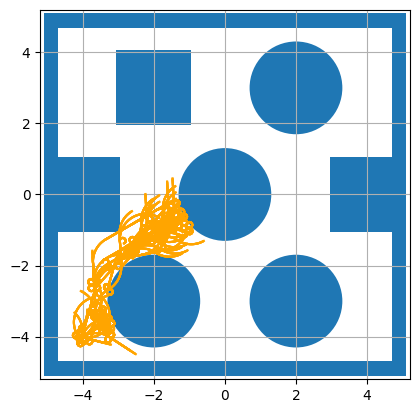
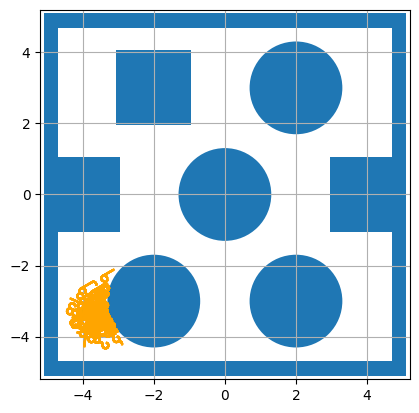
added json file

Changed region(s): [[0.1551, 0.4358, 0.4964, 0.8426], [0.3103, 0.8426, 0.3413, 0.8717]]

diff --git a/Turtlebot_A_star.py b/Turtlebot_A_star.py
@@ -11,29 +11,30 @@ import math
 import matplotlib.pyplot as plt
 from time import process_time
 import cv2
+import json
 
 ###################################################################################################################
 #               USER INPUT
 ###################################################################################################################
-# Uncomment to choose different positions:-
-print("Kindly enter all values in metres")
-start_node_x = float(input("Enter the starting x coordinate for the rigid robot\n"))
-start_node_y = float(input("Enter the starting y coordinate for the rigid robot\n"))
-initial_angle = float(input("Enter the initial angle of the robot in degree\n"))
-
-goal_node_x = float(input("Enter the goal x coordinate for the rigid robot\n"))
-goal_node_y = float(input("Enter the goal y coordinate for the rigid robot\n"))
-
-start_node_position = [start_node_x, start_node_y]
-goal_node_position = [goal_node_x, goal_node_y]
-
-# two rpm values
-rpm1 = float(input("Enter value of rpm 1\n"))
-rpm2 = float(input("Enter value of rpm 2\n"))
-
-radius_rigid_robot = float(input("Enter the radius of the rigid robot \n"))
-clearance = float(input("Enter the desired clearance for the rigid robot\n"))
-augment_distance = radius_rigid_robot + clearance
+# # Uncomment to choose different positions:-
+# print("Kindly enter all values in metres")
+# start_node_x = float(input("Enter the starting x coordinate for the rigid robot\n"))
+# start_node_y = float(input("Enter the starting y coordinate for the rigid robot\n"))
+# initial_angle = float(input("Enter the initial angle of the robot in degree\n"))
+#
+# goal_node_x = float(input("Enter the goal x coordinate for the rigid robot\n"))
+# goal_node_y = float(input("Enter the goal y coordinate for the rigid robot\n"))
+#
+# start_node_position = [start_node_x, start_node_y]
+# goal_node_position = [goal_node_x, goal_node_y]
+#
+# # two rpm values
+# rpm1 = float(input("Enter value of rpm 1\n"))
+# rpm2 = float(input("Enter value of rpm 2\n"))
+#
+# radius_rigid_robot = float(input("Enter the radius of the rigid robot \n"))
+# clearance = float(input("Enter the desired clearance for the rigid robot\n"))
+# augment_distance = radius_rigid_robot + clearance
 
 ###################################################################################################################
 #               CONSTANTS
@@ -48,32 +49,32 @@ time_for_moving_turtlebot = 5
 #               TESTING CODE
 ###################################################################################################################
 #
-# turtlebot_diameter = 0.21 #0.21 metres
-#
-# # for testing for video 1
+turtlebot_diameter = 0.21 #0.21 metres
+
+# for testing for video 1
+start_node_x = -4
+start_node_y = -3.5
+initial_angle = 30
+goal_node_x = 0.5
+goal_node_y = -2.5
+
+# # for testing for video 2
 # start_node_x = -4
-# start_node_y = -3.5
+# start_node_y = -4
 # initial_angle = 30
-# goal_node_x = 0.5
-# goal_node_y = -2.5
-#
-# # # for testing for video 2
-# # start_node_x = -4
-# # start_node_y = -4
-# # initial_angle = 30
-# # goal_node_x = 4
-# # goal_node_y = 2.5
-#
-# rpm1 = 40
-# rpm2 = 50
-# radius_rigid_robot = 0.105
-# # radius_rigid_robot = 0
-#
-# clearance = 0.2
-# start_node_position = [start_node_x, start_node_y]
-# goal_node_position = [goal_node_x, goal_node_y]
-#
-# augment_distance = radius_rigid_robot + clearance
+# goal_node_x = 4
+# goal_node_y = 2.5
+
+rpm1 = 20
+rpm2 = 20
+radius_rigid_robot = 0.105
+# radius_rigid_robot = 0
+
+clearance = 0.2
+start_node_position = [start_node_x, start_node_y]
+goal_node_position = [goal_node_x, goal_node_y]
+
+augment_distance = radius_rigid_robot + clearance
 
 
 if (start_node_x < -5.1 and start_node_x > 5.1) and (goal_node_x < -5.1 and goal_node_x > 5.1):
@@ -143,6 +144,16 @@ def rpm_to_new_point(clearance, radius_rigid_robot, test_point_coord, test_point
         return new_point, distance_covered
     else:
         return None, None
+
+def write_param_json(action, test_point_coord, test_point_angle):
+    dict_vel = { }
+    dict_vel['velocity'] = list(action)
+    dict_vel['delta_time'] = time_for_moving_turtlebot
+    dict_vel['init_pose'] = (test_point_coord[0],test_point_coord[1], test_point_angle)
+
+    file_name = 'turtlebot_velocities.json'
+    with open(file_name, 'w') as outfile:
+        json.dump(dict_vel, outfile)
 
 
 def get_new_node(action, clearance, radius_rigid_robot, test_point_coord, test_point_angle, rpm1, rpm2):
@@ -482,7 +493,7 @@ def main():
                 print('ac', action)
                 plot_curve(parent_pos, parent_angle, action[0], action[1], 'orange')
 
-                if ind % 30 == 0:
+                if ind % 3000 == 0:
                     # "." denotes the current directory
                     # ".." denotes the previous directory
                     plt_name = './plots/plot' + str(ind) + '.png'
@@ -570,6 +581,15 @@ def main():
         out.write(plot_img)
 
         out.release()
+
+        lin_ang_vel_list = []
+        for action in action_path:
+            if action is not None:
+                linv = radius_wheel * (2 / 60) * pi * (action[0] + action[1])
+                angv = (radius_wheel * (2 / 60) * pi / distance_between_wheels) * (action[1] - action[0])
+                lin_ang_vel_list.append([linv, angv])
+
+        write_param_json(lin_ang_vel_list, (start_node_x, start_node_y), math.radians(initial_angle))
 
         fig.show()
         plt.show()
